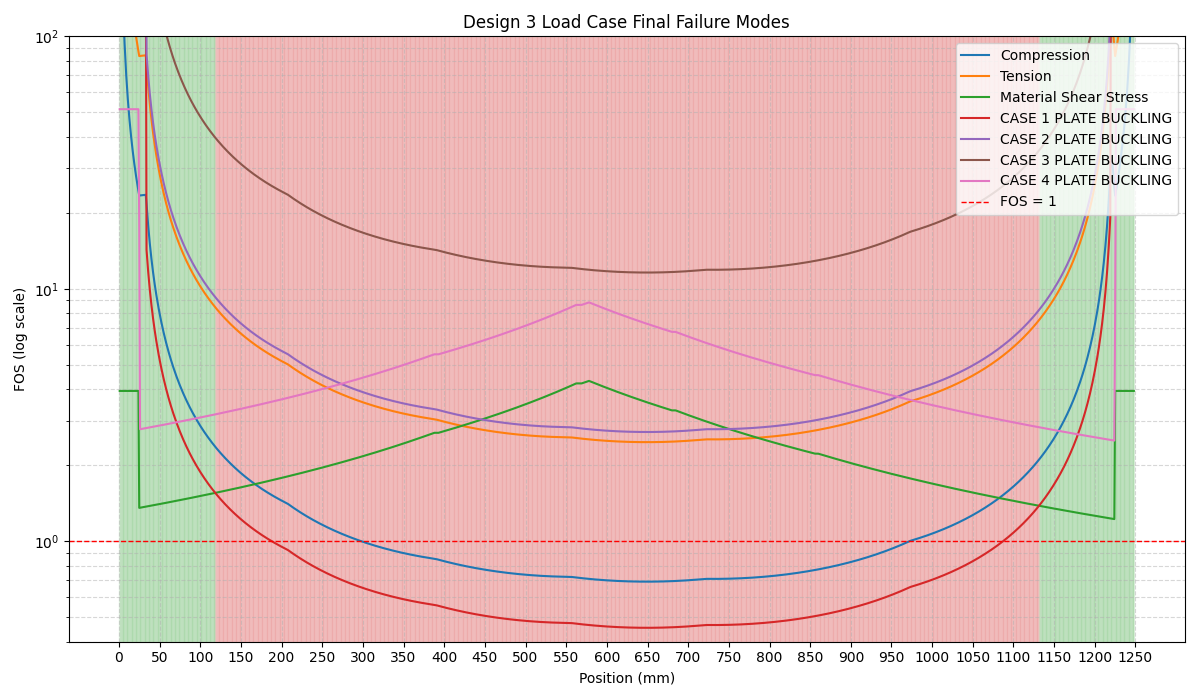
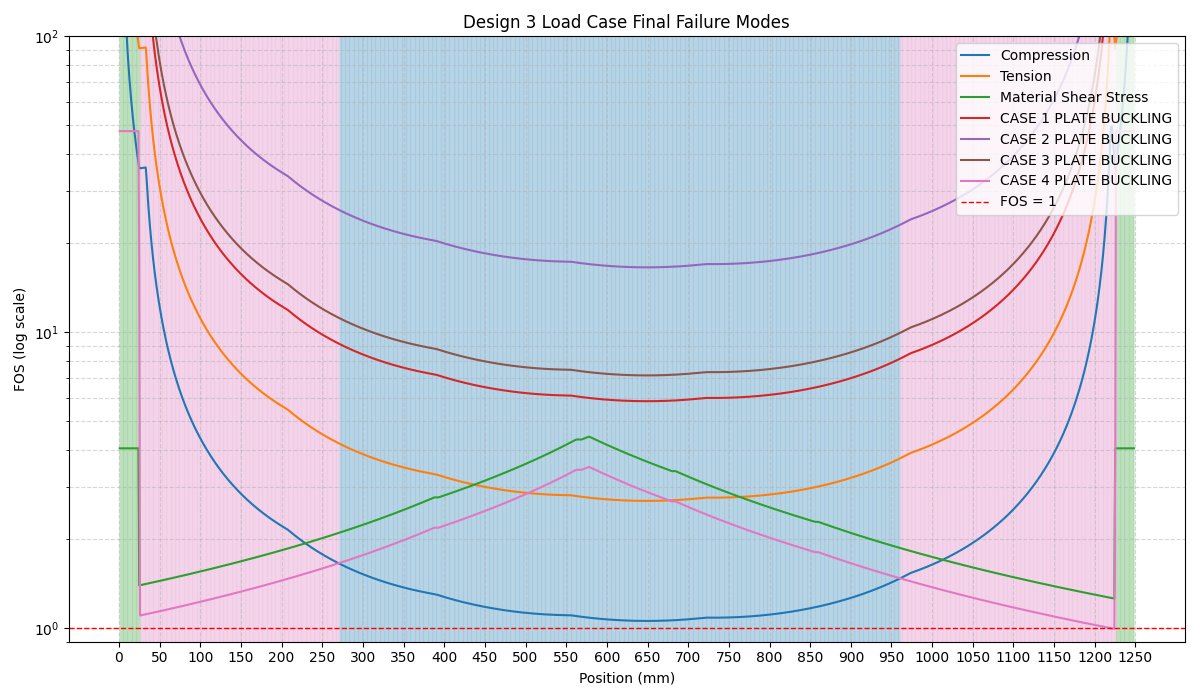
redid 3

diff --git a/optimize.py b/optimize.py
@@ -321,9 +321,9 @@ def print_dict(dict):
 #main
 if __name__ == "__main__":
     #get arrays of rectangles of different cross-sections
-    supports = CrossSection.get_rects("./Design Iterations/design6_supports.txt")
-    edge = CrossSection.get_rects("./Design Iterations/design6_edge.txt")
-    middle = CrossSection.get_rects("./Design Iterations/design6_middle.txt")
+    supports = CrossSection.get_rects("./Design Iterations/design3.txt")
+    edge = CrossSection.get_rects("./Design Iterations/design3.txt")
+    middle = CrossSection.get_rects("./Design Iterations/design3.txt")
 
 
     #git pull --no-rebase
@@ -342,6 +342,6 @@ if __name__ == "__main__":
     del list[1], list[-1]
 
     #use plot.py to plot list
-    plot.plot(list, True, "Design 6 Load Case Final Failure Modes")
+    plot.plot(list, True, "Design 3 Load Case Final Failure Modes")
 
     print ("DONE")

diff --git a/CrossSection.py b/CrossSection.py
@@ -201,7 +201,6 @@ def Q(rects, height, ybar):
 
     rects_below = []
     for i in rects:
-        print(i)
         rects_below.append(intersect(i, block))
 
     #print ("rects below", rects_below)
@@ -246,7 +245,12 @@ def ybar_top(rects):
 
 if __name__ == "__main__":
 
-    rects = get_rects("./section_final_supports.txt")
+    rects = get_rects("./Design Iterations/design6_middle.txt")
     ybarr = ybar(rects)
 
-    print (ybarr, I(rects), Q(rects, 60, ybarr), width_at_location(rects, ybarr))
+    print ("ybar: ", ybarr)
+    print ("I: ", I(rects))
+    print ("Q_centroid: ", Q(rects, ybarr, ybarr))
+    print ("width at centroid: ", width_at_location(rects, ybarr))
+
+    #print (ybarr, I(rects), Q(rects, 60, ybarr), width_at_location(rects, ybarr))
